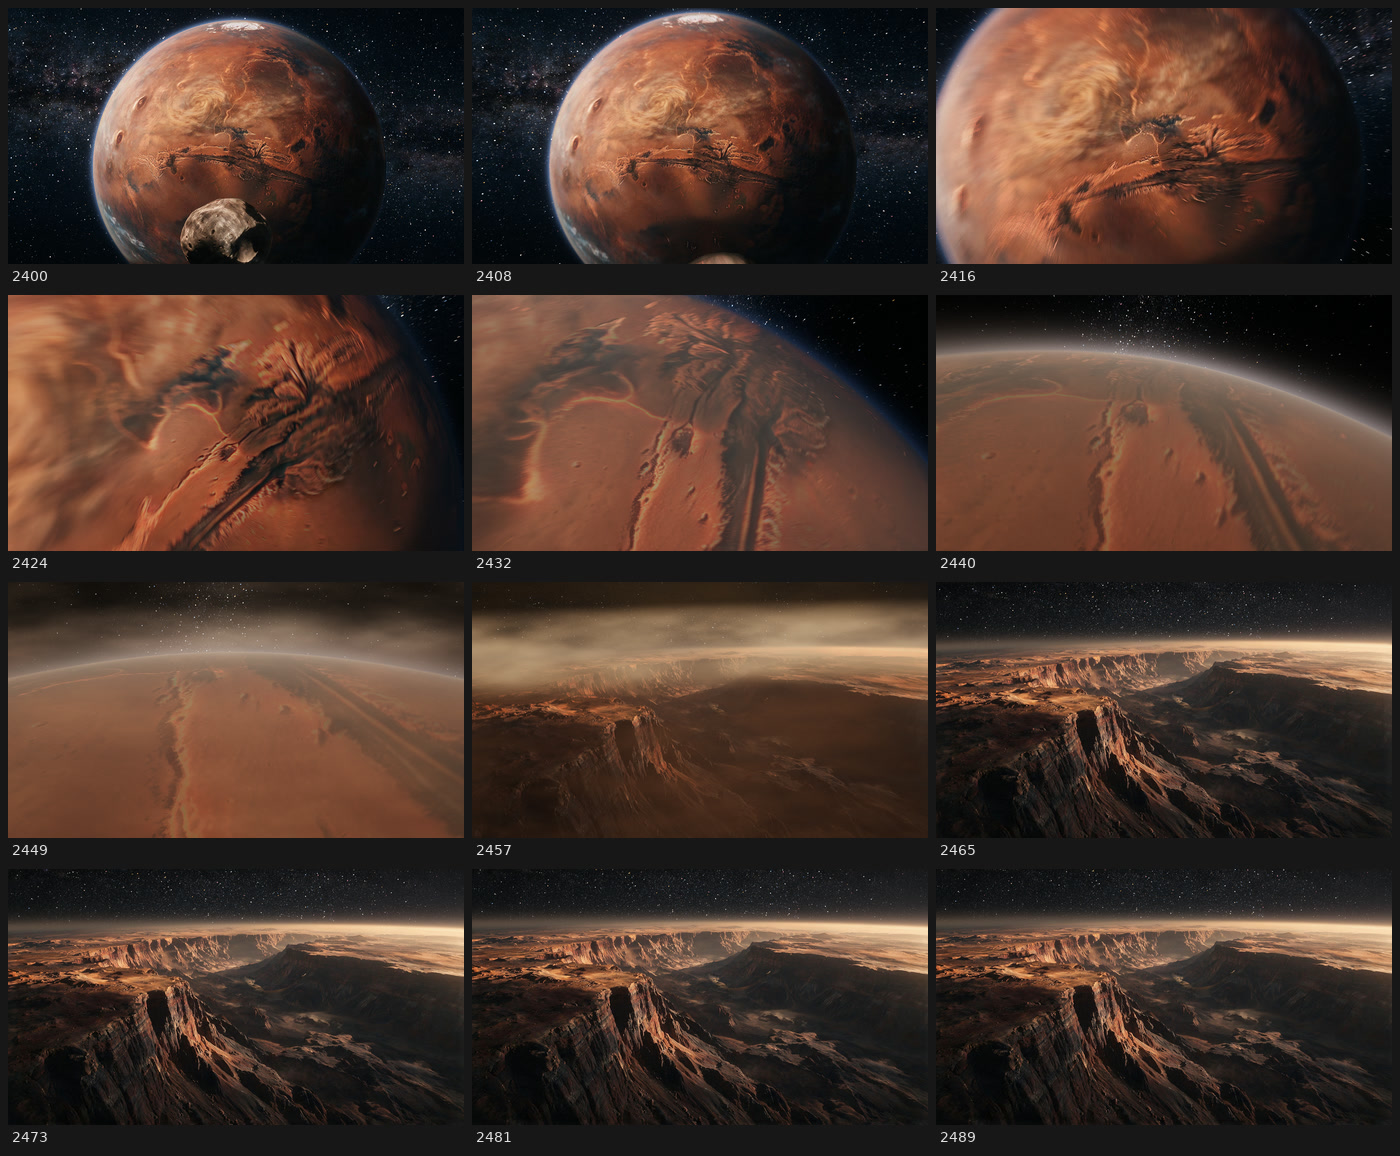
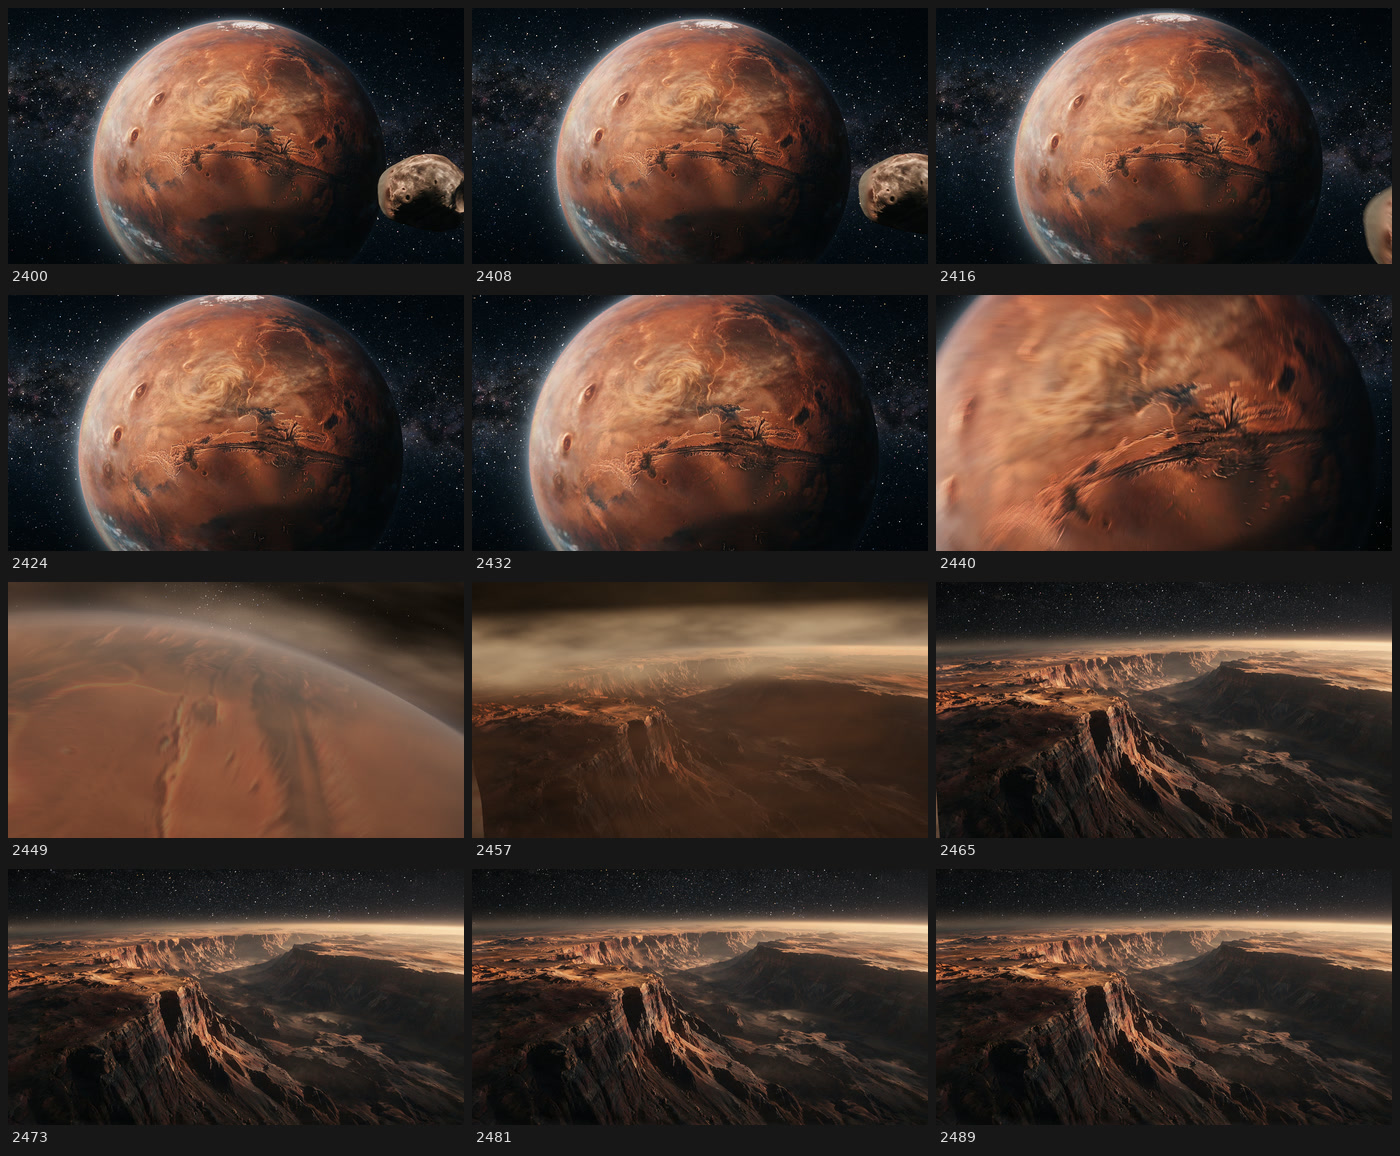
Mars: night side flattens bright albedo, terrain entry turned so the relief edge stays out of frame, status pictures after round 3

diff --git a/src/bodies/planet.ts b/src/bodies/planet.ts
@@ -14,6 +14,7 @@ export interface PlanetLight {
   reliefNear: number
   limb: number
   curve?: number[][]
+  nightFlat?: [number, number, number]
 }
 
 export const CURVE_KNOTS = 33
@@ -102,6 +103,7 @@ uniform vec3 uTint;
 uniform float uWrap;
 uniform vec3 uCurve[33];
 uniform vec3 uNight;
+uniform vec3 uNightFlat;
 uniform float uRelief;
 uniform float uReliefNear;
 uniform float uLimb;
@@ -178,7 +180,13 @@ ${PATCH_LEVELS}
   vec3 dir = normalize(vPos);
   float mu = clamp(dot(n, -dir), 0.0, 1.0);
   vec3 shade = max(curveAt(ndl0) - uNight, vec3(0.0)) * (1.0 + lift) * mix(1.0, pow(mu, 0.35), uLimb) + uNight;
-  vec3 col = inverseFilmic(albedo) * shade * uTint;
+  vec3 lin = inverseFilmic(albedo);
+  if (uNightFlat.x > 0.0) {
+    float dark = 1.0 - smoothstep(uNightFlat.y, uNightFlat.z, ndl0);
+    float l = dot(lin, vec3(0.2126, 0.7152, 0.0722));
+    lin *= mix(1.0, 2.0 / (1.0 + l / uNightFlat.x), dark);
+  }
+  vec3 col = lin * shade * uTint;
   vec3 at;
   float tau = hazeDepth(dir, true, at);
   col = col * exp(-tau * uExtinction) + hazeLight(n, dir) * (1.0 - exp(-tau));
@@ -238,6 +246,7 @@ export class Planet {
         uMapWidth: { value: o.mapWidth }, uHeightStep: { value: (2 * Math.PI) / o.heightWidth },
         uSpin: { value: 0 }, uGain: { value: 1 }, uWeight: { value: 1 }, uTint: { value: new THREE.Vector3(1, 1, 1) },
         uWrap: { value: o.light.wrap }, uCurve: { value: curve(o.light) }, uNight: { value: new THREE.Vector3().fromArray(o.light.night) },
+        uNightFlat: { value: new THREE.Vector3().fromArray(o.light.nightFlat ?? [0, 0, 0]) },
         uRelief: { value: o.light.relief }, uReliefNear: { value: o.light.reliefNear }, uLimb: { value: o.light.limb },
         uExtinction: { value: o.haze.extinction },
         uBodyToWorld: { value: this.bodyToWorld },

diff --git a/src/stops/mars/plan.ts b/src/stops/mars/plan.ts
@@ -5,7 +5,7 @@ export const params: MoveParams = {
   hold: { orbitDeg: -8, axis: [-0.15, 1, 0], push: -0.04 },
   spot: { x: 0.45, y: 0.54 },
   dive: { headingDeg: -105, altitude: 0.032, back: 0.08, ahead: 0.16, bow: -0.2, rollDeg: -6, swoop: true, surge: { glide: 0.14, rise: 11, fall: 1.2 } },
-  terrain: { vfov: 60, gather: 0.6, forward: 0.3, rise: 0.06, side: 0.3, yawDeg: -2.9, pitchDeg: 0, entryHeight: 0.25, entryBack: 0.35, entryPitchDeg: -6, entryYawDeg: 0, entryRollDeg: -3, horizonDeg: 18.43, dipDeg: 2.6, exitHeight: 0.4, exitForward: 0.15, exitPitchDeg: 8 },
+  terrain: { vfov: 60, gather: 0.6, forward: 0.3, rise: 0.06, side: 0.3, yawDeg: -2.9, pitchDeg: 0, entryHeight: 0.25, entryBack: 0.35, entryPitchDeg: -6, entryYawDeg: -3, entryRollDeg: -3, horizonDeg: 18.43, dipDeg: 2.6, exitHeight: 0.4, exitForward: 0.15, exitPitchDeg: 8 },
   rise: { azimuthDeg: 34, elevationDeg: 16, distance: 4.6, offset: [-0.32, -0.08], driftSpeed: 0.08, rollDeg: 5, ahead: 0.03, hug: 1.7, tilt: 0.7, settle: 5 },
   travel: { turnDeg: 86, side: -1, turnEnd: 0.52 },
   arrive: { swingDeg: -30, axis: [0.3, 1, 0.1], offset: [-0.55, -0.2] },

diff --git a/src/stops/mars/look.ts b/src/stops/mars/look.ts
@@ -16,6 +16,7 @@ export const light: PlanetLight = {
   reliefNear: 0.008,
   limb: 0,
   curve: fitted.curve,
+  nightFlat: [0.06, -0.3, 0.1],
 }
 
 export const haze = hazeJson.ground as HazeParams
